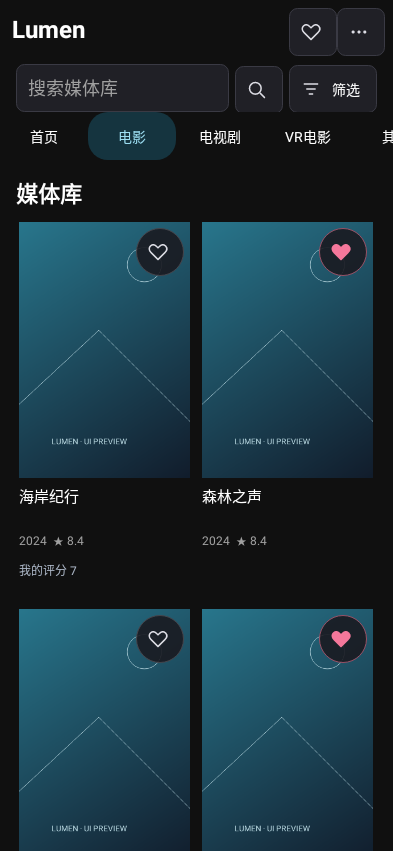
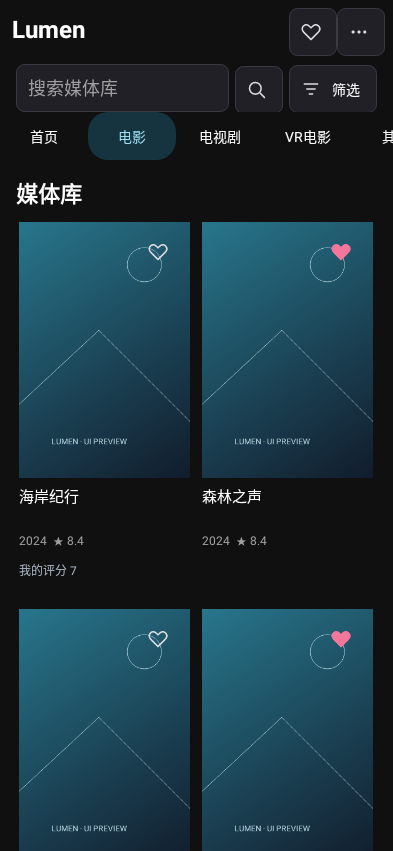
Remove poster action backgrounds and audit basic feature gaps

diff --git a/android/app/src/main/java/net/lumen/media/MainActivity.java b/android/app/src/main/java/net/lumen/media/MainActivity.java
@@ -387,7 +387,7 @@ public final class MainActivity extends Activity {
         String title=field.equals("favorite")?"收藏":"想看";
         button.setText(compact?"":(active?"已":"")+title);button.setContentDescription((active?"取消":"加入")+title);
         MediaStyle.button(button,false,active,field.equals("favorite"));MediaStyle.icon(button,field.equals("favorite")?"heart":"bookmark",active);
-        if(compact)button.setBackground(MediaStyle.surface(this,0xe51a1a21,active?0xff985166:0xff45454c,24));
+        if(compact)button.setBackgroundColor(Color.TRANSPARENT);
     }
     private Button markButton(JSONObject work,String field,boolean compact){
         Button button=button("",()->{});button.setTag("mark:"+work.optLong("id")+":"+field);markStyle(button,work,field,work.optInt(field)==1,compact);

diff --git a/src/lumen/ui.py b/src/lumen/ui.py
@@ -237,7 +237,7 @@ class PosterDelegate(QStyledItemDelegate):
             _,actions=poster_regions(option.rect)
             for key,name,color in [('favorite','heart','#f4779b'),('watchlist','bookmark','#65d3ed')]:
                 if hover or data.get(key):
-                    area=actions[key];painter.setPen(Qt.PenStyle.NoPen);painter.setBrush(QColor(0,0,0,190));painter.drawEllipse(area)
+                    area=actions[key]
                     icon(name,color if data.get(key) else '#eeeeee',bool(data.get(key))).paint(painter,area.adjusted(6,6,-6,-6))
         painter.setClipping(False)
         if selected:

diff --git a/docs/basic-feature-audit.md b/docs/basic-feature-audit.md
@@ -1,0 +1,42 @@
+# 基础功能核查（0.4.6）
+
+核查日期：2026-10-24。以原始需求、UI 规范、Android 说明及当前源码为依据；后续用户明确调整优先于初始文档。本次是文档与代码核查，不等同于 Windows / Android 真机验收。
+
+## 文档要求与实现的差距
+
+| 项目 | 设计依据 | 当前实现与差距 |
+| --- | --- | --- |
+| 电视剧按季浏览 | [需求第三节、第十三节](requirements.md)：电视剧 → 季 → 集，季与集列表 | 季集数据、编号、选集、连续播放已实现；PC `Details` 和 Android `renderDetail` 仍平铺全部集数，没有季选择或按季分组。属于交互不完整。 |
+| 观看状态筛选 | [需求第七节](requirements.md)、[UI 筛选规范](ui-design.md) | PC 有已观看 / 未观看，核心将有任意观看时间或进度的作品计为已观看，不能分别筛选未开始、进行中、已完成；Android 筛选没有观看状态入口。原始文档没有细分这三个状态，不能据此称三态均为原始硬性要求。 |
+| 智能片单 | [需求第七节](requirements.md)：保存常用筛选条件 | PC 已有保存、加载；Android 没有对应入口。原始需求针对 Windows，Android 属于跨端能力差距，并非未完成原始 PC 要求。 |
+| 实机体验验收 | [阶段计划质量关卡](implementation-plan.md)、[Android 解码验证范围](android.md) | 自动化和页面渲染不能替代不同 Windows DPI、系统栏、Android 设备解码 / HDR / 长时间播放验收；相关文档明确保留真机验证项，不能将功能有代码视为全部验收通过。 |
+
+证据：`src/lumen/ui.py` 的 `Details` 文件列表、`FilterDialog`、`save_list` / `load_list`；`src/lumen/core.py` 的 `query`；`android/app/src/main/java/net/lumen/media/MainActivity.java` 的详情文件循环、筛选面板和 `listPath`。
+
+## 原始设计也漏写的基础功能
+
+以下是新增补全建议，不冒充原始文档要求；本次没有实现这些功能。
+
+| 优先级 | 功能 | 当前情况 / 建议补全 |
+| --- | --- | --- |
+| 高 | 媒体库排序 | 核心查询固定 `added DESC,id DESC`，PC / Android 无排序选择。增加名称、年份、入库时间、评分、时长及升降序，并保存偏好。演员墙已有独立排序，不受此结论影响。 |
+| 高 | 手动管理观看状态 | 没有标记已看 / 未看、重置单集进度、从继续观看移除的常规入口。已有自动记录、恢复与连播。手动改状态应与真实观看时长统计分开。 |
+| 高 | 批量操作 | PC 海报列表仅单选；缺少多选后收藏、标记观看、编辑标签等操作。已有批量导入、匹配、NFO 补图，不能笼统说没有批处理。 |
+| 高 | 移除条目与失效路径修复 | 没有常规“仅移出媒体库”入口；目录迁移后缺少保留原 ID / 进度的路径重定位。已有监控目录管理、健康检查、文件整理和重复作品合并。若增加物理删除，应单独提供受保护的回收站操作。 |
+| 中 | 播放倍速 | PC 后端有速率接口，但两端播放器缺少用户入口；后端能力和统计测试覆盖倍速不代表用户能操作。 |
+| 中 | 季分组与连播选项 | 除按季浏览外，缺少关闭自动下一集的设置。已有 PC / Android 上一集、下一集，不重复列为缺失。 |
+| 中 | 可编辑播放队列 | 已有洗牌、不重复、上一项 / 下一项和恢复；缺少用户指定顺序、追加、移除、拖动排序与循环模式。 |
+| 中 | 剧照完整浏览 | 已有剧照展示；缺少统一全屏图集、左右切换和缩放。Android 单集剧照与作品剧照的点击行为尚不一致。 |
+| 中 | 返回保留浏览位置 | Android 从详情返回会重建列表并从第一页加载，缺少列表位置恢复；详情内原地修改个人状态已保留滚动。 |
+
+建议先补排序、观看状态和按季浏览，再做批量操作、路径修复与播放器常用设置。Android 离线观看、2D VR 观看和新的 GPU 增强算法不在本轮建议范围内。
+
+## 文档本身需要维护
+
+- 原始需求的“不提供下载”已被用户后续明确要求 HTTP / 磁力下载覆盖，不能按旧句子删除现有下载功能。
+- `architecture.md` 仍主要描述 Qt 播放器，当前 Windows 已优先使用 libmpv、Qt 作为兼容回退；文档需要同步。
+- `implementation-plan.md` 的自动化验收摘要不能直接用作所有产品交互已完成的证明；后续应按功能分别记录代码、界面入口、验证和交付版本。
+
+## 本次图标调整
+
+按用户追加要求，PC 与 Android 封面右上角的个人操作取消圆形底色，只保留图标与状态色；点击区域保留。UI 规范已同步。本次没有打包或发布 Release。

diff --git a/docs/ui-design.md b/docs/ui-design.md
@@ -40,6 +40,8 @@ Android 使用底部筛选面板，提供可输入的标签、演员、年份与
 
 PC 海报悬停显示播放、收藏和想看，已选状态始终可见。收藏 / 想看直接更新卡片，不打开详情、不播放、不重建海报墙，保留滚动位置；在收藏列表取消收藏只移除对应卡片。首页横向媒体行使用相同操作。
 
+封面右上角的个人操作只显示图标，不绘制圆形底色或边框；选中状态沿用心形粉红、书签青色。PC 保留原点击区域，Android 保留至少 48dp 的透明触控区域。
+
 Android 海报提供至少 48dp 的收藏触控区域；海报网格与标签均随可用宽度换行。保存时立即显示选中状态，失败恢复原值并提示。收藏和想看操作完成后不重新加载整页。
 
 ## 详情
